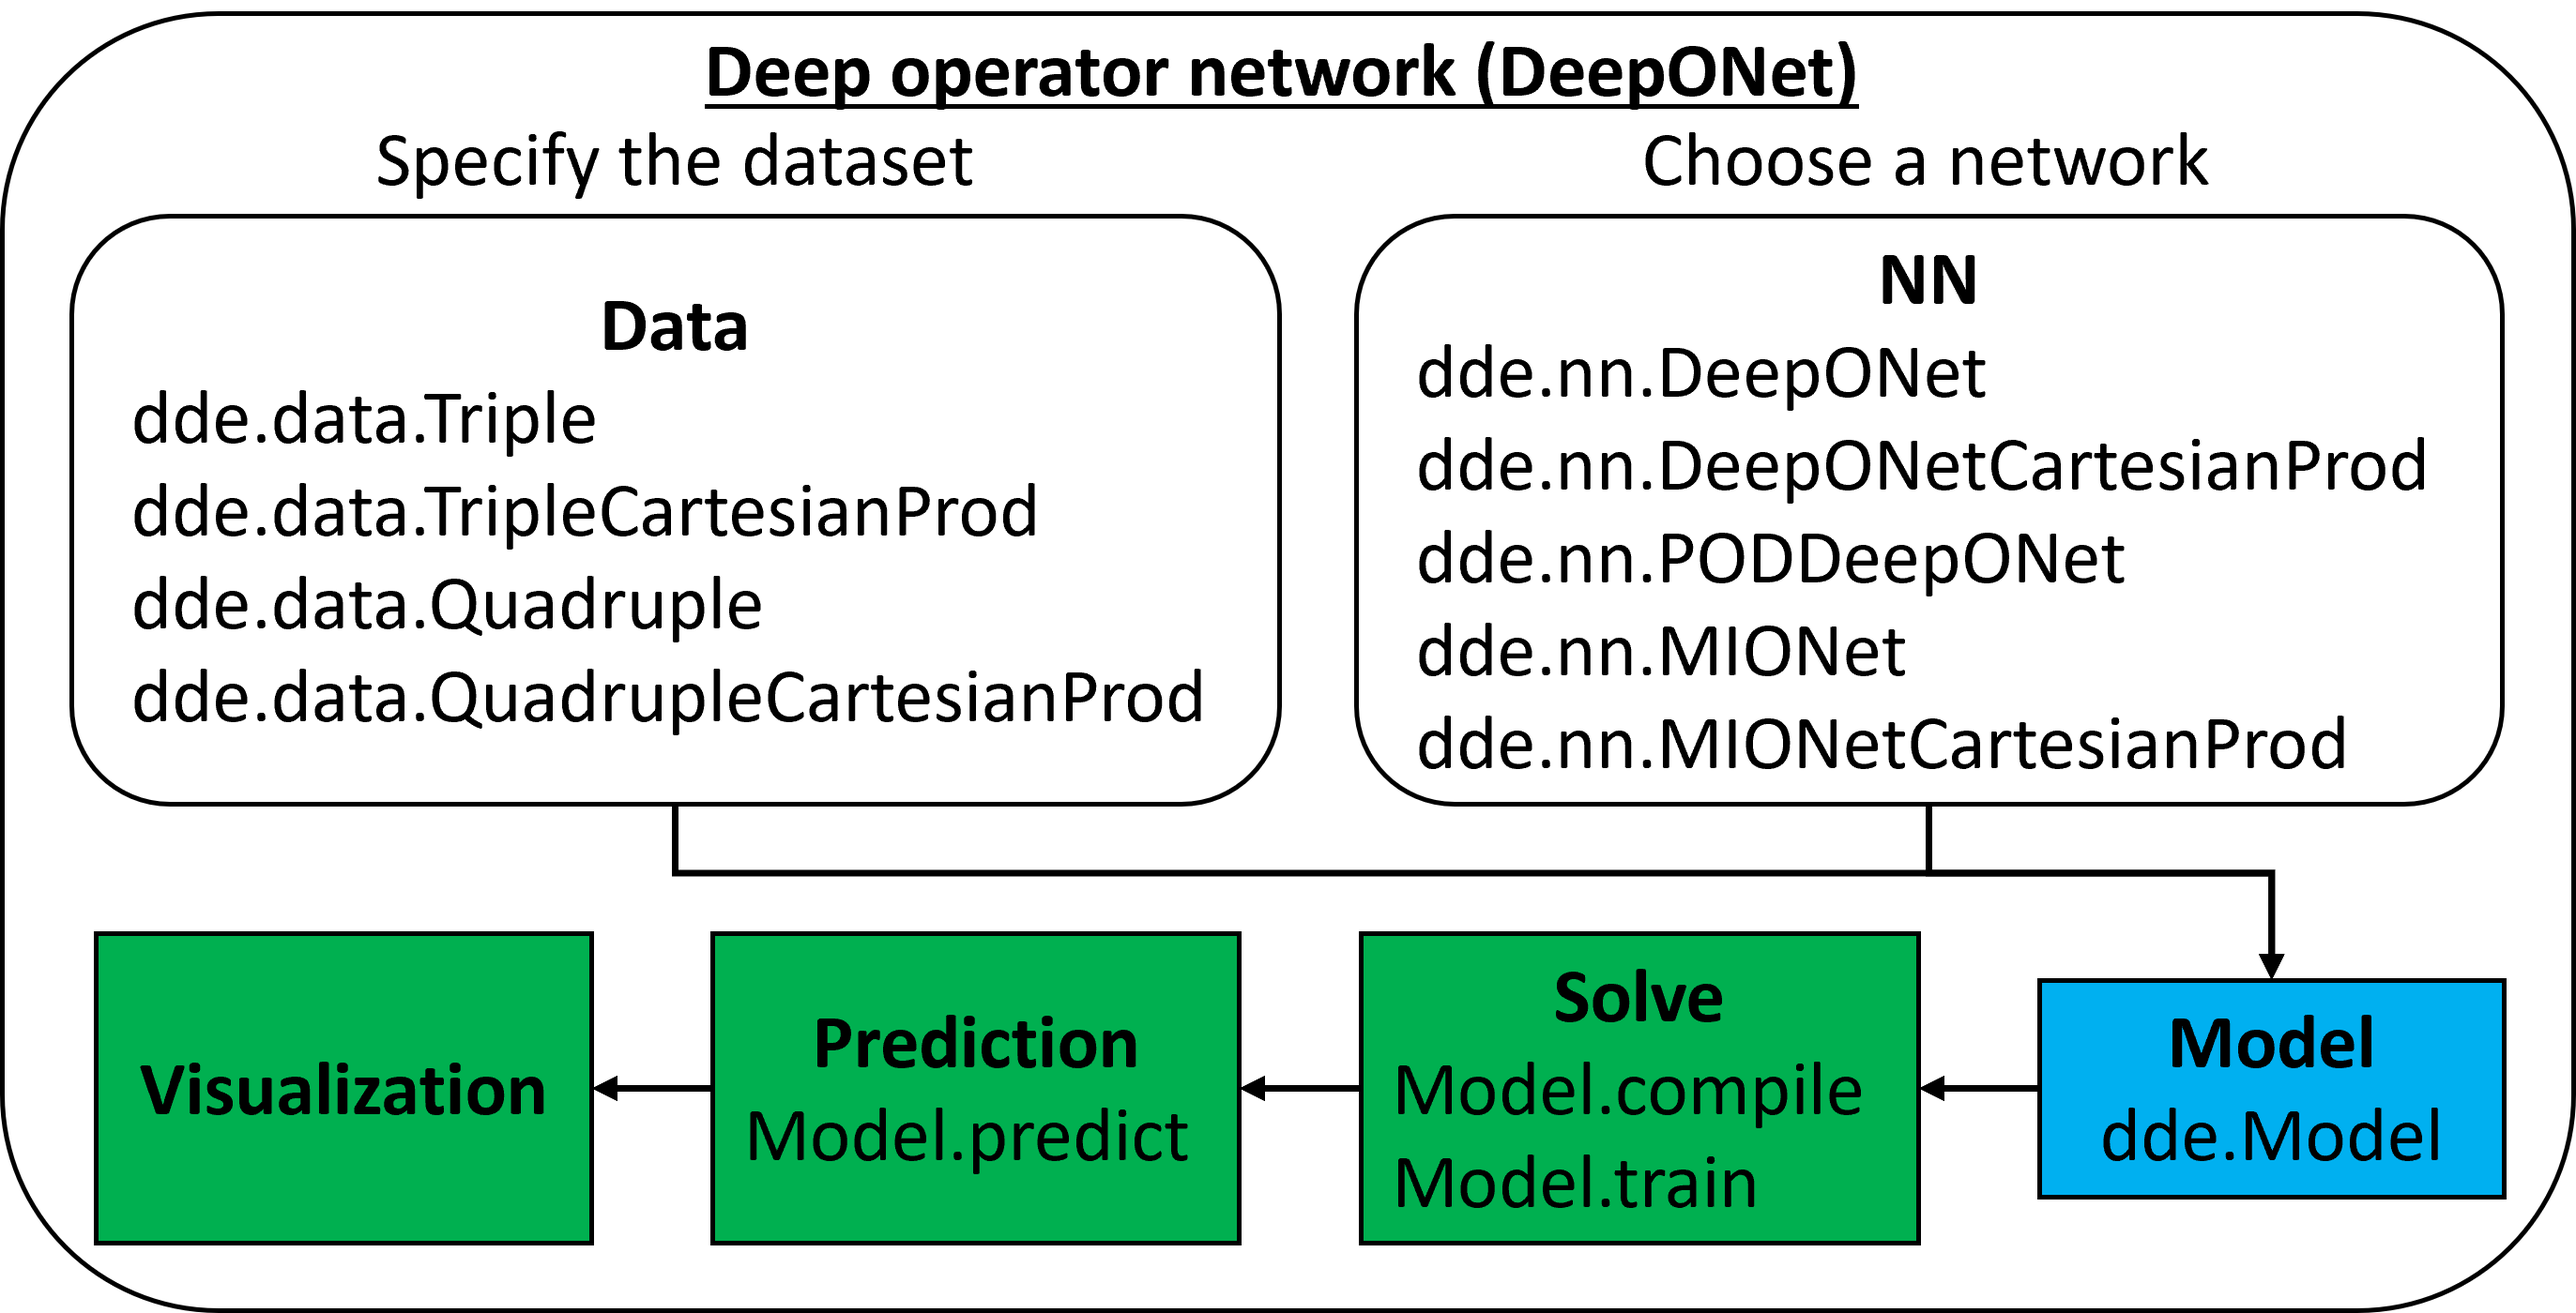
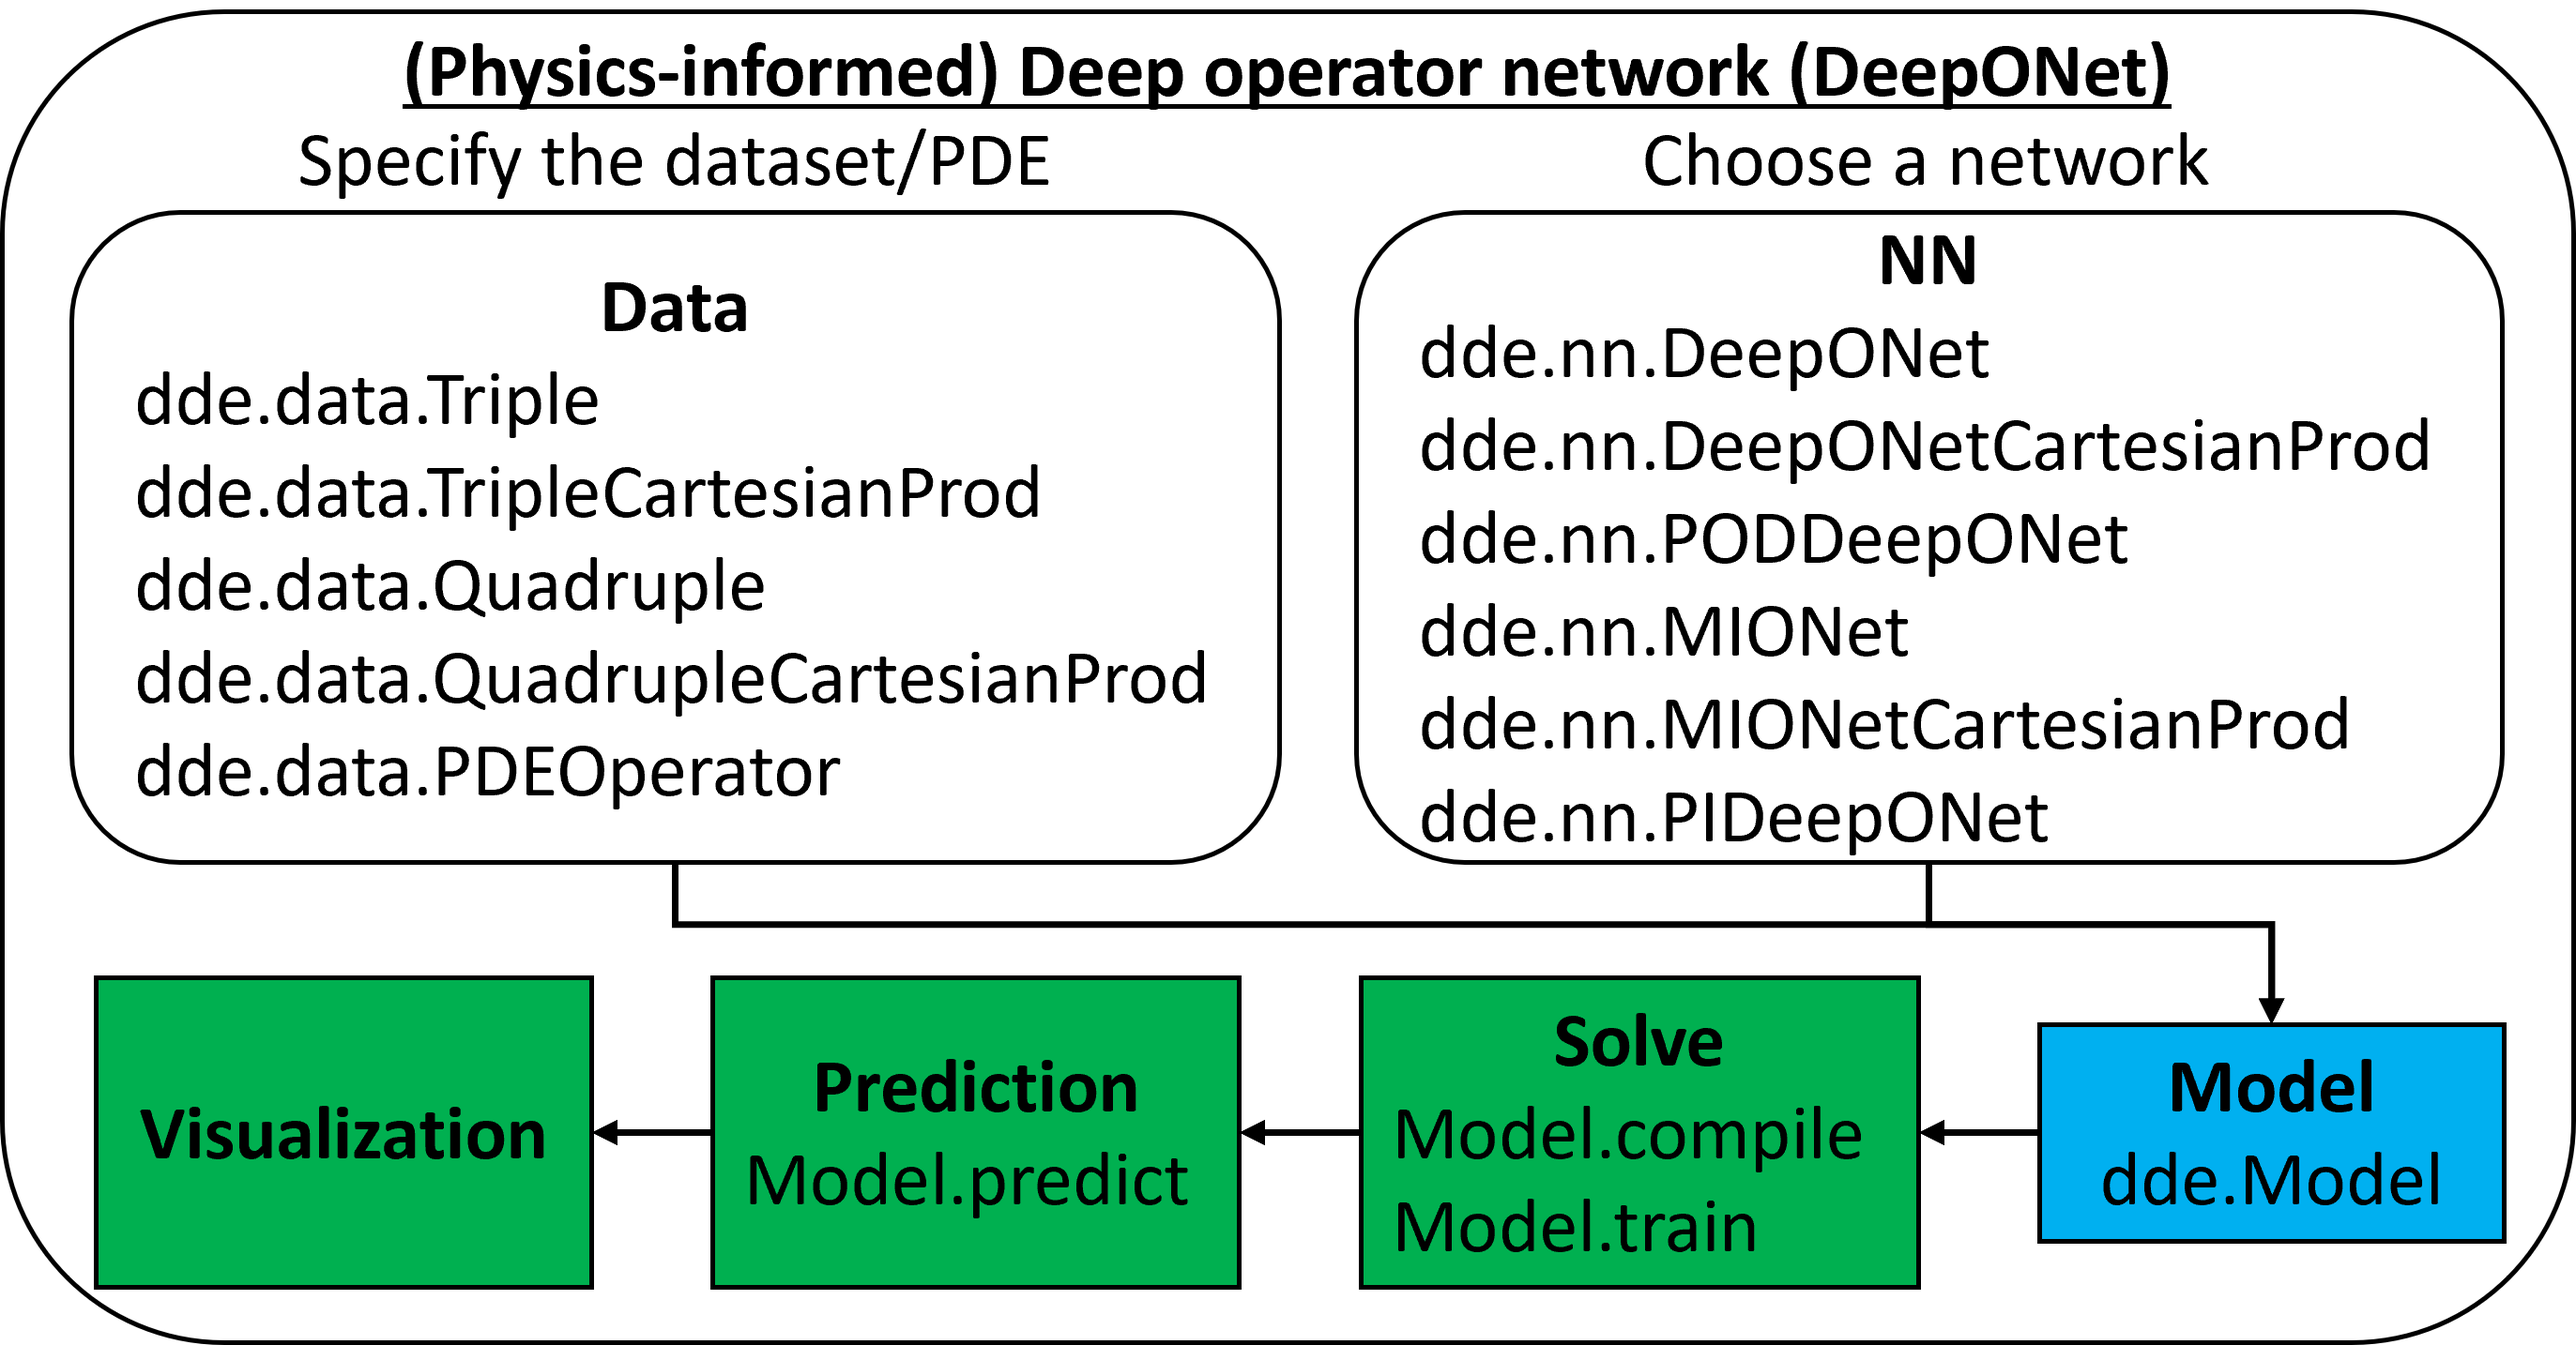
Add PDEOperator and PIDeepONet

diff --git a/deepxde/data/pde_operator.py b/deepxde/data/pde_operator.py
@@ -1,0 +1,104 @@
+import numpy as np
+
+from .data import Data
+from .. import backend as bkd
+from ..utils import run_if_all_none
+
+
+class PDEOperator(Data):
+    """PDE solution operator.
+
+    Args:
+        pde: Instance of ``dde.data.PDE`` or ``dde.data.TimePDE``.
+        function_space: Instance of ``dde.data.FunctionSpace``.
+        num_function (int): The number of functions for training.
+        num_sensor (int): The number of sensors to evaluate the input function as the
+            input of the branch net.
+
+    Attributes:
+        train_x: A triple of three Numpy arrays (v, x, vx) fed into PIDeepONet for
+            training. v is the function input to the branch net; x is the point input to
+            the trunk net; vx is the value of v evaluated at x, i.e., v(x). `train_x` is
+            ordered from BCs to PDE.
+        test_x: A triple of three Numpy arrays (v, x, vx) fed into PIDeepONet for
+            testing.
+        num_bcs (list): `num_bcs[i]` is the number of points for `bcs[i]`.
+    """
+
+    def __init__(self, pde, function_space, num_function, num_sensor):
+        self.pde = pde
+        self.func_space = function_space
+        self.num_func = num_function
+        self.num_sensor = num_sensor
+
+        self.num_bcs = [n * self.num_func for n in self.pde.num_bcs]
+        self.train_x = None
+        self.train_y = None
+        self.test_x = None
+        self.test_y = None
+
+        self.train_next_batch()
+        self.test()
+
+    def losses(self, targets, outputs, loss, model):
+        f = self.pde.pde(model.net.inputs[1], outputs, model.net.inputs[2])
+        bcs_start = np.cumsum([0] + self.num_bcs)
+        error_f = f[bcs_start[-1] :]
+
+        # TODO Assume only 1 PDE
+        losses = [loss(bkd.zeros_like(error_f), error_f)]
+        for i, bc in enumerate(self.pde.bcs):
+            beg, end = bcs_start[i], bcs_start[i + 1]
+            # The same BC points are used for training and testing.
+            # TODO BC cannot have v
+            error = bc.error(self.train_x[1], model.net.inputs[1], outputs, beg, end)
+            losses.append(loss(bkd.zeros_like(error), error))
+        return losses
+
+    @run_if_all_none("train_x", "train_y")
+    def train_next_batch(self, batch_size=None):
+        # Branch input: v
+        func_feats = self.func_space.random(self.num_func)
+        # TODO FunctionSpace should have a domain variable via dde.geometry
+        # Assume v is in [0, 1]
+        xs = np.linspace(0, 1, num=self.num_sensor)[:, None]
+        v = self.func_space.eval_batch(func_feats, xs)
+        # BC
+        # Format:
+        # v1, x_bc1_1
+        # ...
+        # v1, x_bc1_N1
+        # v2, x_bc1_1
+        # ...
+        # v2, x_bc1_N1
+        # TODO Assume only 1 BC
+        v_bc = np.repeat(v, self.pde.num_bcs[0], axis=0)
+        # PDE
+        # TODO If no PDE
+        v_pde = np.repeat(v, len(self.pde.train_x_all), axis=0)
+        v = np.vstack((v_bc, v_pde))
+
+        # Trunk input: x
+        x_bc = np.tile(self.pde.train_x_bc, (self.num_func, 1))
+        x_pde = np.tile(self.pde.train_x_all, (self.num_func, 1))
+        x = np.vstack((x_bc, x_pde))
+
+        # vx
+        vx_bc = self.func_space.eval_batch(func_feats, self.pde.train_x_bc).reshape(
+            -1, 1
+        )
+        vx_pde = self.func_space.eval_batch(func_feats, self.pde.train_x_all).reshape(
+            -1, 1
+        )
+        vx = np.vstack((vx_bc, vx_pde))
+
+        self.train_x = (v, x, vx)
+        self.train_y = None
+        return self.train_x, self.train_y
+
+    @run_if_all_none("test_x", "test_y")
+    def test(self):
+        # TODO
+        self.test_x = self.train_x
+        self.test_y = self.train_y
+        return self.test_x, self.test_y

diff --git a/deepxde/data/pde.py b/deepxde/data/pde.py
@@ -24,9 +24,9 @@ class PDE(Data):
             `num_boundary` sampled points.
         exclusions: A Numpy array of points to be excluded for training.
         solution: The reference solution.
-        num_test: The number of points sampled inside the domain for testing. The testing
-            points on the boundary are the same set of points used for training. If
-            ``None``, then the training points will be used for testing.
+        num_test: The number of points sampled inside the domain for testing. The
+            testing points on the boundary are the same set of points used for training.
+            If ``None``, then the training points will be used for testing.
         auxiliary_var_function: A function that inputs `train_x` or `test_x` and outputs
             auxiliary variables.
 
@@ -53,19 +53,20 @@ class PDE(Data):
 
     Attributes:
         train_x_all: A Numpy array of all points for training. `train_x_all` is
-            unordered, and does not have duplication.
-        train_x: A Numpy array of the points fed into the network for training.
-            `train_x` is constructed from `train_x_all`, ordered from BCs to PDE, and
-            may have duplicate points.
+            unordered, and does not have duplication. If there is PDE, then
+            `train_x_all` is used as the training points of PDE.
         train_x_bc: A Numpy array of the training points for BCs. `train_x_bc` is
             constructed from `train_x_all` at the first step of training, by default it
             won't be updated when `train_x_all` changes. To update `train_x_bc`, set it
             to `None` and call `bc_points`, and then update the loss function by
             ``model.compile()``.
         num_bcs (list): `num_bcs[i]` is the number of points for `bcs[i]`.
+        train_x: A Numpy array of the points fed into the network for training.
+            `train_x` is ordered from BC points (`train_x_bc`) to PDE points
+            (`train_x_all`), and may have duplicate points.
+        train_aux_vars: Auxiliary variables that associate with `train_x`.
         test_x: A Numpy array of the points fed into the network for testing, ordered
             from BCs to PDE. The BC points are exactly the same points in `train_x_bc`.
-        train_aux_vars: Auxiliary variables that associate with `train_x`.
         test_aux_vars: Auxiliary variables that associate with `test_x`.
     """
 

diff --git a/deepxde/nn/tensorflow_compat_v1/deeponet.py b/deepxde/nn/tensorflow_compat_v1/deeponet.py
@@ -245,6 +245,40 @@ class DeepONet(NN):
         return outputs
 
 
+class PIDeepONet(DeepONet):
+    def __init__(
+        self,
+        layer_sizes_branch,
+        layer_sizes_trunk,
+        activation,
+        kernel_initializer,
+        regularization=None,
+        use_bias=True,
+        stacked=False,
+        trainable_branch=True,
+        trainable_trunk=True,
+    ):
+        super().__init__(
+            layer_sizes_branch,
+            layer_sizes_trunk,
+            activation,
+            kernel_initializer,
+            regularization=regularization,
+            use_bias=use_bias,
+            stacked=stacked,
+            trainable_branch=trainable_branch,
+            trainable_trunk=trainable_trunk,
+        )
+
+    def _feed_dict_inputs(self, inputs):
+        return dict(zip(self.inputs, inputs))
+
+    def build(self):
+        super().build()
+        self.X_func_loc = tf.placeholder(config.real(tf), [None, 1])
+        self._inputs.append(self.X_func_loc)
+
+
 class DeepONetCartesianProd(NN):
     """Deep operator network for dataset in the format of Cartesian product.
 

diff --git a/deepxde/data/__init__.py b/deepxde/data/__init__.py
@@ -13,6 +13,7 @@ __all__ = [
     "MfDataSet",
     "MfFunc",
     "PDE",
+    "PDEOperator",
     "PowerSeries",
     "Quadruple",
     "QuadrupleCartesianProd",
@@ -33,5 +34,6 @@ from .func_constraint import FuncConstraint
 from .ide import IDE
 from .mf import MfDataSet, MfFunc
 from .pde import PDE, TimePDE
+from .pde_operator import PDEOperator
 from .quadruple import Quadruple, QuadrupleCartesianProd
 from .triple import Triple, TripleCartesianProd

diff --git a/deepxde/nn/tensorflow_compat_v1/__init__.py b/deepxde/nn/tensorflow_compat_v1/__init__.py
@@ -10,11 +10,12 @@ __all__ = [
     "MsFFN",
     "NN",
     "PFNN",
+    "PIDeepONet",
     "ResNet",
     "STMsFFN",
 ]
 
-from .deeponet import DeepONet, DeepONetCartesianProd
+from .deeponet import DeepONet, DeepONetCartesianProd, PIDeepONet
 from .fnn import FNN, PFNN
 from .mfnn import MfNN
 from .mionet import MIONet, MIONetCartesianProd

diff --git a/README.md b/README.md
@@ -22,7 +22,7 @@ DeepXDE is a library for scientific machine learning and physics-informed learni
         - gradient-enhanced PINN (gPINN) [[Comput. Methods Appl. Mech. Eng.](https://doi.org/10.1016/j.cma.2022.114823)]
         - PINN with multi-scale Fourier features [[Comput. Methods Appl. Mech. Eng.](https://doi.org/10.1016/j.cma.2021.113938)]
     - [Slides](https://github.com/lululxvi/tutorials/blob/master/20211210_pinn/pinn.pdf), [Video](https://www.youtube.com/watch?v=Wfgr1pMA9fY&list=PL1e3Jic2_DwwJQ528agJYMEpA0oMaDSA9&index=13), [Video in Chinese](http://tianyuan.xmu.edu.cn/cn/minicourses/637.html)
-- deep operator network (DeepONet)
+- (physics-informed) deep operator network (DeepONet)
     - learning operators [[Nat. Mach. Intell.](https://doi.org/10.1038/s42256-021-00302-5)]
     - DeepONet extensions, e.g., POD-DeepONet [[Comput. Methods Appl. Mech. Eng.](https://doi.org/10.1016/j.cma.2022.114778)]
     - MIONet: learning multiple-input operators [[arXiv](https://arxiv.org/abs/2202.06137)]
@@ -52,6 +52,7 @@ DeepXDE has implemented many algorithms as shown above and supports many feature
 - 5 types of **boundary conditions** (BCs): Dirichlet, Neumann, Robin, periodic, and a general BC, which can be defined on an arbitrary domain or on a point set.
 - different **neural networks**: fully connected neural network (FNN), stacked FNN, residual neural network, (spatio-temporal) multi-scale Fourier feature networks, etc.
 - 6 **sampling methods**: uniform, pseudorandom, Latin hypercube sampling, Halton sequence, Hammersley sequence, and Sobol sequence. The training points can keep the same during training or be resampled every certain iterations.
+- 4 **function spaces**: power series, Chebyshev polynomial, Gaussian random field (1D/2D).
 - different **optimizers**: Adam, L-BFGS, etc.
 - conveniently **save** the model during training, and **load** a trained model.
 - **callbacks** to monitor the internal states and statistics of the model during training: early stopping, etc.

diff --git a/docs/index.rst b/docs/index.rst
@@ -14,7 +14,7 @@ DeepXDE
         - gradient-enhanced PINN (gPINN) [`Comput. Methods Appl. Mech. Eng. <https://doi.org/10.1016/j.cma.2022.114823>`_]
         - PINN with multi-scale Fourier features [`Comput. Methods Appl. Mech. Eng. <https://doi.org/10.1016/j.cma.2021.113938>`_]
     - `Slides <https://github.com/lululxvi/tutorials/blob/master/20211210_pinn/pinn.pdf>`_, `Video <https://www.youtube.com/watch?v=Wfgr1pMA9fY&list=PL1e3Jic2_DwwJQ528agJYMEpA0oMaDSA9&index=13>`_, `Video in Chinese <http://tianyuan.xmu.edu.cn/cn/minicourses/637.html>`_
-- deep operator network (DeepONet)
+- (physics-informed) deep operator network (DeepONet)
     - learning operators [`Nat. Mach. Intell. <https://doi.org/10.1038/s42256-021-00302-5>`_]
     - DeepONet extensions, e.g., POD-DeepONet [`Comput. Methods Appl. Mech. Eng. <https://doi.org/10.1016/j.cma.2022.114778>`_]
     - MIONet: learning multiple-input operators [`arXiv <https://arxiv.org/abs/2202.06137>`_]
@@ -45,6 +45,7 @@ DeepXDE has implemented many algorithms as shown above and supports many feature
 - 5 types of **boundary conditions** (BCs): Dirichlet, Neumann, Robin, periodic, and a general BC, which can be defined on an arbitrary domain or on a point set.
 - different **neural networks**: fully connected neural network (FNN), stacked FNN, residual neural network, (spatio-temporal) multi-scale Fourier feature networks, etc.
 - 6 **sampling methods**: uniform, pseudorandom, Latin hypercube sampling, Halton sequence, Hammersley sequence, and Sobol sequence. The training points can keep the same during training or be resampled every certain iterations.
+- 4 **function spaces**: power series, Chebyshev polynomial, Gaussian random field (1D/2D).
 - different **optimizers**: Adam, L-BFGS, etc.
 - conveniently **save** the model during training, and **load** a trained model.
 - **callbacks** to monitor the internal states and statistics of the model during training: early stopping, etc.

diff --git a/docs/modules/deepxde.data.rst b/docs/modules/deepxde.data.rst
@@ -89,6 +89,14 @@ deepxde.data.pde module
    :undoc-members:
    :show-inheritance:
 
+deepxde.data.pde\_operator module
+---------------------------------
+
+.. automodule:: deepxde.data.pde_operator
+   :members:
+   :undoc-members:
+   :show-inheritance:
+
 deepxde.data.quadruple module
 -----------------------------
 
